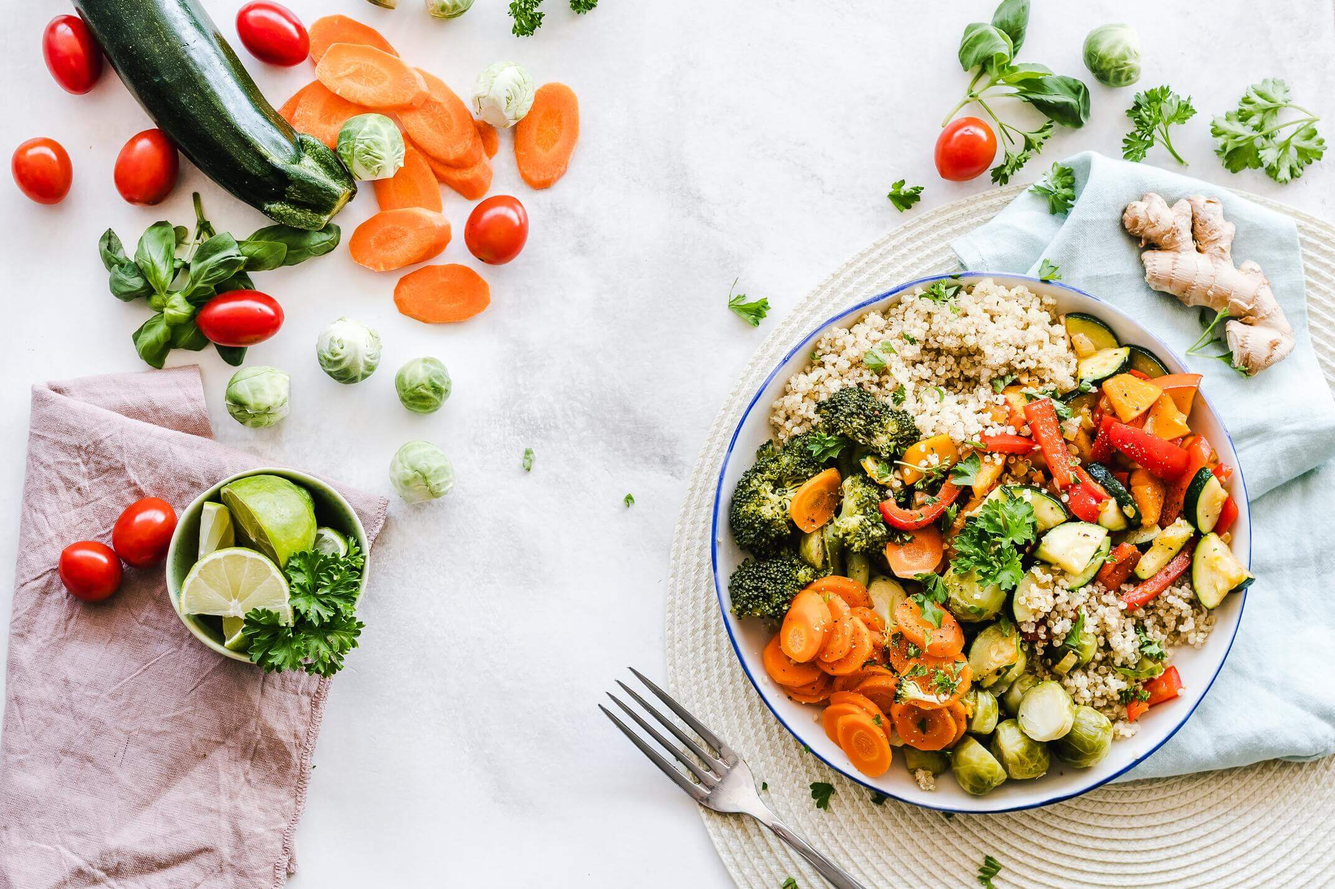
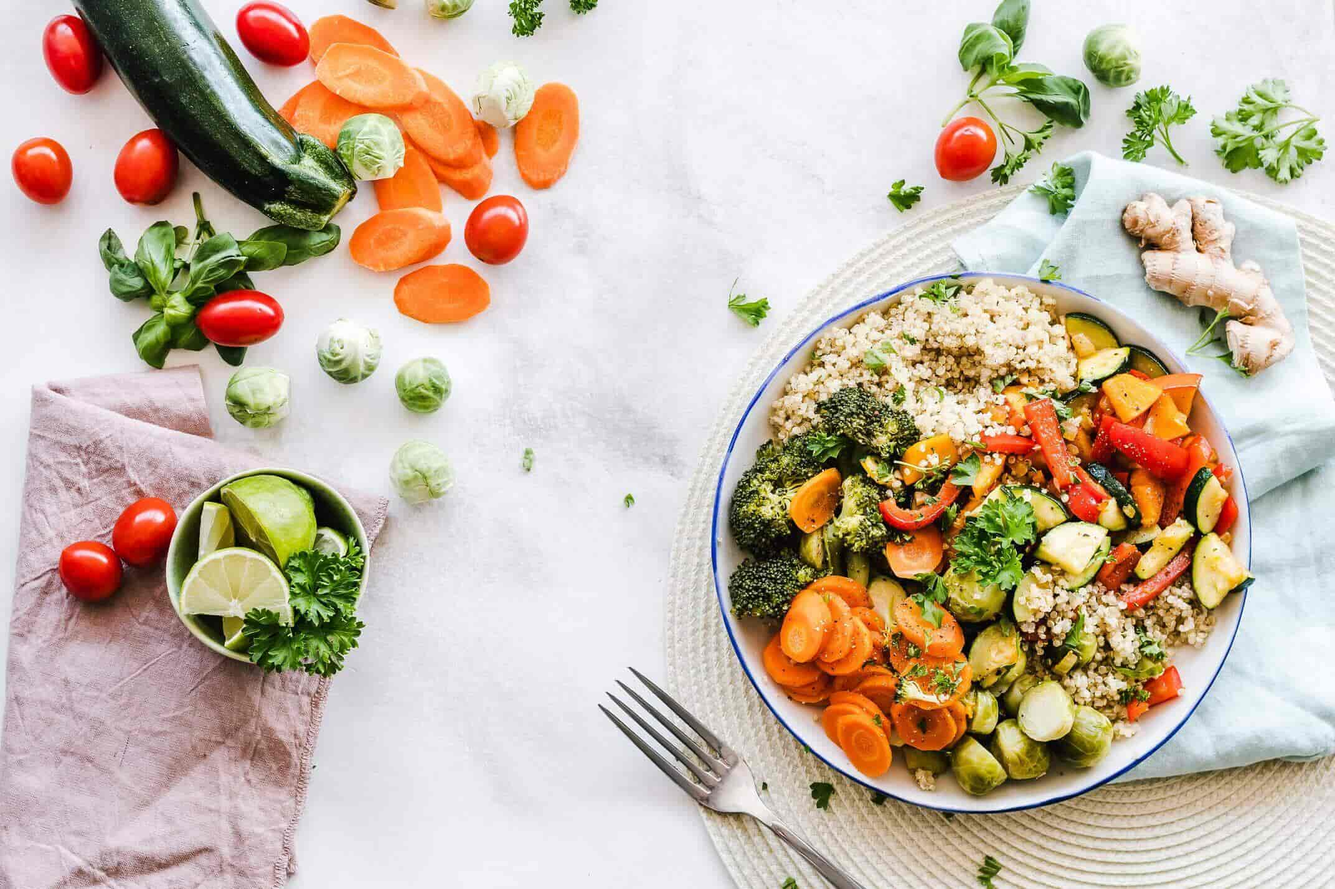
optimizadas todas las imagenes del index

diff --git a/index.html b/index.html
@@ -109,7 +109,7 @@
 
     <div class="propuesta__container__grid container">
       <div class="solucion__image__container">
-        <img class="solucion__image viandas__varias__grid" src="./images/small-images/viandas_varias_prueba.jpg"
+        <img class="solucion__image viandas__varias__grid" src="./images/small-images/viandas_varias_prueba_dos.jpg"
           alt="viandas varias" />
       </div>
 
@@ -153,7 +153,7 @@
       <div>
         <article class="articulo__en__columnas__container">
           <div class="img__redonda__container">
-            <img src="./images/pan_de_carne_centro_1.jpg" alt="Pan de carne" class="img__redonda comidaUno" />
+            <img src="./images/pan_de_carne_centro_1_prueba.jpg" alt="Pan de carne" class="img__redonda comidaUno" />
           </div>
           <div class="texto__en__columnas__container">
             <h3 class="subtitulos__especiales cualidadUno">Rico</h3>

diff --git a/css/main.css b/css/main.css
@@ -67,7 +67,7 @@ nav ul a #link__naranja:hover {
       -ms-flex-align: center;
           align-items: center;
   background-position: center;
-  background-image: url("../images/small-images/portada_index_prueba");
+  background-image: url("../images/small-images/portada_index.jpg");
   background-size: cover;
   background-color: orange;
   height: 500px;

diff --git a/_portadas.scss b/_portadas.scss
@@ -11,7 +11,7 @@
     flex-direction: column;
     align-items: center;
     background-position: center;
-    background-image: url("../images/small-images/portada_index_prueba");
+    background-image: url("../images/small-images/portada_index.jpg");
     background-size: cover;
     background-color: orange;
     height: 500px;
